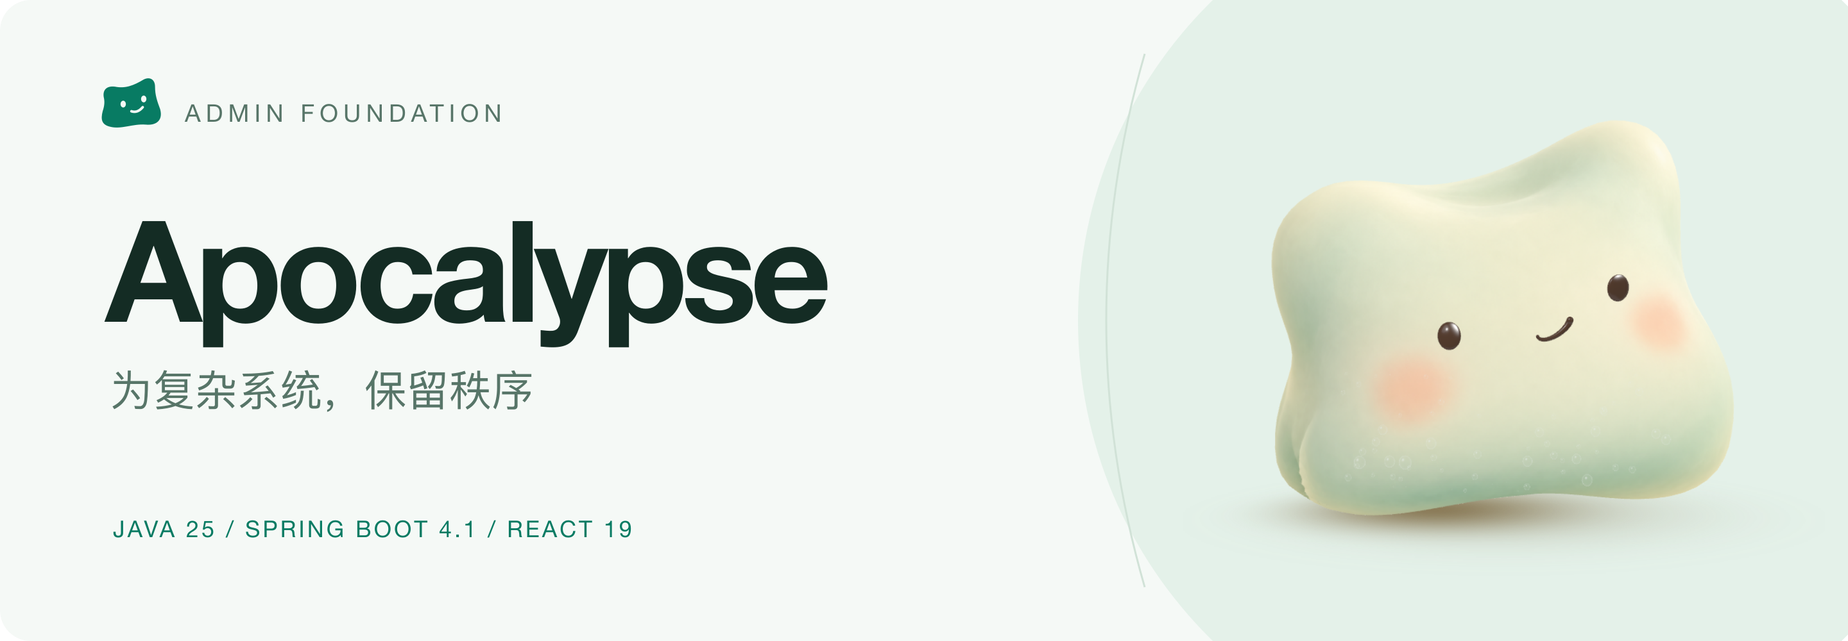
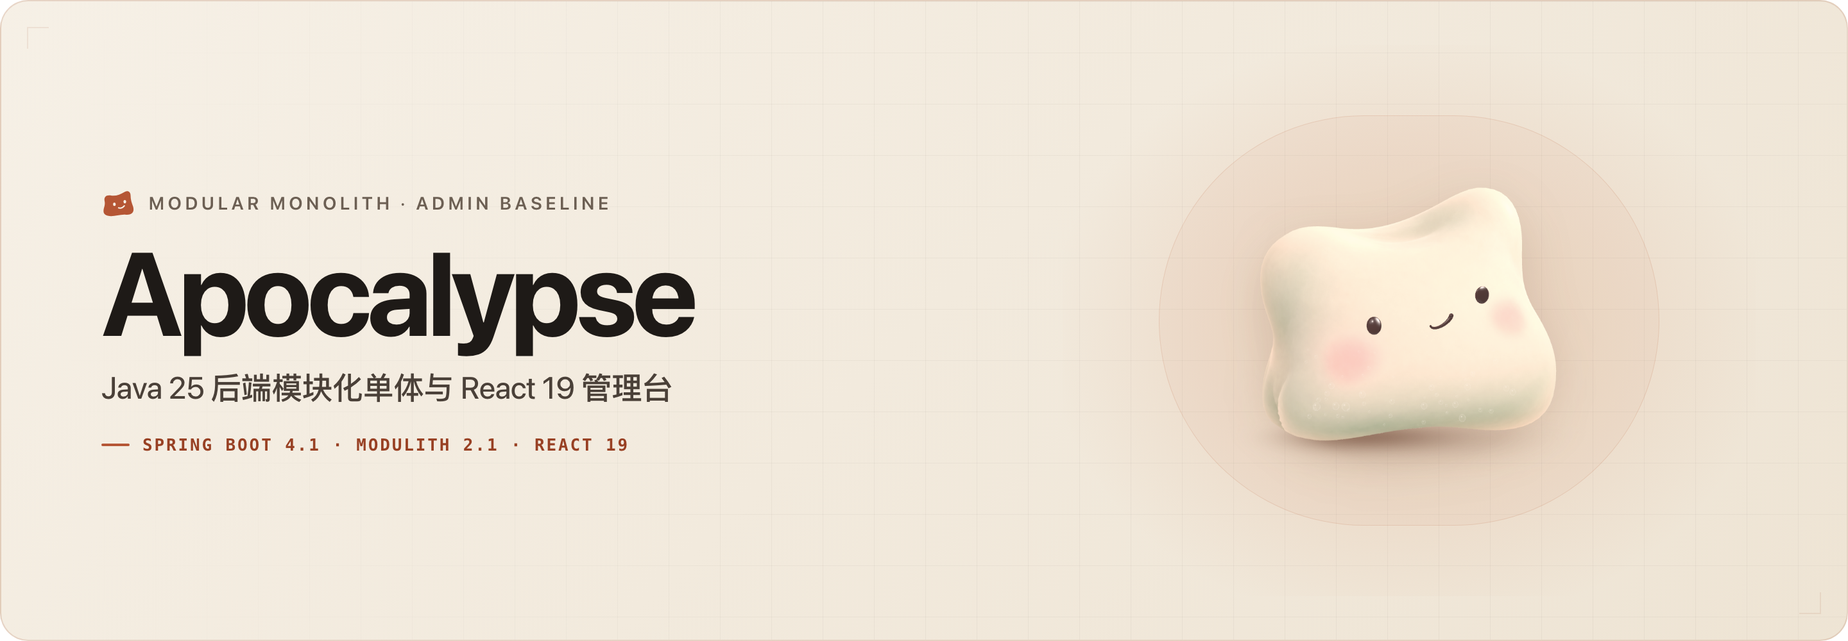
docs(readme): redesign visual palette and update showcase for v0.1.0-rc.2

diff --git a/README.md b/README.md
@@ -2,119 +2,132 @@
   <source media="(max-width: 600px) and (prefers-color-scheme: dark)" srcset=".github/assets/readme/hero-mobile-dark.png">
   <source media="(max-width: 600px)" srcset=".github/assets/readme/hero-mobile-light.png">
   <source media="(prefers-color-scheme: dark)" srcset=".github/assets/readme/hero-dark.png">
-  <img src=".github/assets/readme/hero-light.png" alt="Apocalypse — Admin Foundation。为复杂系统，保留秩序。Apo / Milk Cloud 品牌角色。" width="100%">
+  <img src=".github/assets/readme/hero-light.png" alt="Apocalypse：Java 25 后端模块化单体与 React 19 管理台" width="100%">
 </picture>
 
 <p align="center">
-  <strong>让业务从一个更好的起点开始。</strong><br>
-  Java 模块化单体 × React 管理台，为你的下一套业务系统打好基础。
+  <strong>Java 25 / Spring Boot 4.1 模块化单体 × React 19 管理台基座</strong><br>
+  含认证授权、实时权限判定、操作审计、两级缓存与标准化后台页面组件。
 </p>
 
 <p align="center">
-  <a href="docs/release.md"><img src=".github/assets/readme/version.svg" alt="0.1.0-rc.2 发行候选" height="24"></a>
-  <a href="https://github.com/lilibonk/apocalypse/actions/workflows/ci.yml"><img src=".github/assets/readme/checks.svg" alt="查看 GitHub Actions CI" height="24"></a>
-  <a href="LICENSE"><img src=".github/assets/readme/license.svg" alt="Apache License 2.0" height="24"></a>
+  <a href="docs/release.md"><img src=".github/assets/readme/version.svg" alt="Version: 0.1.0-rc.2" height="24"></a>
+  <a href="https://github.com/lilibonk/apocalypse/actions/workflows/ci.yml"><img src=".github/assets/readme/checks.svg" alt="CI: GitHub Actions workflow" height="24"></a>
+  <a href="LICENSE"><img src=".github/assets/readme/license.svg" alt="License: Apache 2.0" height="24"></a>
 </p>
 
 <p align="center">
   <a href="docs/getting-started.md"><strong>快速开始</strong></a> ·
-  <a href="#界面一览">界面一览</a> ·
-  <a href="docs/module-development.md">开发业务模块</a> ·
-  <a href="docs/README.md">使用文档</a> ·
-  <a href="CHANGELOG.md">更新记录</a>
+  <a href="#界面预览">界面预览</a> ·
+  <a href="docs/module-development.md">模块开发</a> ·
+  <a href="docs/README.md">文档索引</a> ·
+  <a href="CHANGELOG.md">变更记录</a>
 </p>
 
-## 界面一览
+## 界面预览
 
-薄荷绿的操作强调、清晰的内容层级，还有一只柔软的 Apo。管理台支持明暗主题、中英文、两档密度与响应式布局，让日常管理也有一点轻快感。
+管理台包含用户、角色、权限目录、菜单、部门、字典与参数工作区，支持清透流体、手绘手账与深邃夜色（Obsidian）三套主题，以及中英文、两档密度与响应式布局。
 
 <picture>
   <source media="(prefers-color-scheme: dark)" srcset=".github/assets/readme/admin-dark.jpg">
-  <img src=".github/assets/readme/admin-light.jpg" alt="Apocalypse 用户管理：侧栏导航、多页签、筛选与操作表格。当前组件渲染，全部为示例数据。" width="100%">
+  <img src=".github/assets/readme/admin-light.jpg" alt="Apocalypse 用户管理界面：左侧部门树筛选、多维检索条、用户表与统一下置分页器，全部为示例数据。" width="100%">
 </picture>
 
-<p align="center"><sub>当前管理台组件 · 示例数据 · 随阅读环境切换明暗展示</sub></p>
+<p align="center"><sub>用户管理工作区（清透流体亮色 / Obsidian 暗色 · 示例数据）</sub></p>
 
 <details>
-<summary><strong>认识 Apo：登录页的品牌宠物</strong></summary>
+<summary><strong>角色授权工作台：业务权限、数据范围与导航分配</strong></summary>
 
-Apo 的 Milk Cloud 造型也出现在首页首图中。在支持 WebGPU 的浏览器里，它能跟随视线、回应按压与拖拽；输入密码时会闭上眼睛，等待、成功和出错时也有对应表情。关闭动效或浏览器不支持时，仍以静态形象陪伴登录。
+角色配置在同一路由全宽展开，统一编辑业务权限开关、逐权限数据范围覆盖、UTC 生效起止时间、C/M 导航菜单分配以及角色成员基线，保存时校验服务端修订号。
 
 <picture>
-  <source media="(prefers-color-scheme: dark)" srcset=".github/assets/readme/login-dark.jpg">
-  <img src=".github/assets/readme/login-light.jpg" alt="Apocalypse 登录页：左侧为 Apo / Milk Cloud 品牌宠物，右侧为登录表单及主题、语言设置。" width="100%">
+  <source media="(prefers-color-scheme: dark)" srcset=".github/assets/readme/role-workbench-dark.jpg">
+  <img src=".github/assets/readme/role-workbench-light.jpg" alt="Apocalypse 角色授权工作台：内联配置业务权限、数据范围覆盖、有效期与导航菜单。" width="100%">
 </picture>
 
 </details>
 
-## 为什么选择 Apocalypse
+<details>
+<summary><strong>登录页与三主题世界切换</strong></summary>
 
-### 一个后端制品，清楚的业务边界
+登录页左侧为 Apo / Milk Cloud 角色舞台（支持 WebGPU 交互并在关闭动效或不支持时降级为静态形象），右侧为凭证表单以及底部的主题世界与语言切换控制。
 
-后端保留**单 Maven 模块**，业务域各自拥有明确入口和对外 facade。Spring Modulith 与 ArchUnit 把边界变成可执行检查，让项目从第一天就有清楚的结构，也能沿着同一套约定继续扩展。
+<picture>
+  <source media="(prefers-color-scheme: dark)" srcset=".github/assets/readme/login-dark.jpg">
+  <img src=".github/assets/readme/login-light.jpg" alt="Apocalypse 登录页：左侧 Milk Cloud 角色与右侧登录表单及主题切换条。" width="100%">
+</picture>
 
-### 从权限到页面，基础已经配套
+</details>
 
-用户、角色、部门、导航、业务权限和审计已有完整管理界面。对象工作区把选择、关系、编辑和保存结果连续呈现，并保留字段列表入口。业务授权独立于导航，支持逐权限的数据范围和生效起止时间；标准 CRUD 页面通过 DynaLayer 声明筛选、表格和表单，业务模块可复用现成控件与查询生命周期。
+## 结构与取向
 
-### 把质量检查带进开发流程
+### 单 Maven 模块下的物理边界
 
-后端检查架构、迁移、安全和集成行为，前端检查类型、组件与真实浏览器交互。模块启停、撤权和换号后的旧请求处理都有回归覆盖，新业务可以沿用同一套门禁。
+后端保持单 Maven 模块构建，以 `io.apocalypse.<domain>` 划分业务域，`common` 与 `framework` 承担共享契约和基础设施装配。跨模块调用仅允许通过对方 `api` 包 facade 或 `common.event` 事件，边界规则由 Spring Modulith 与 ArchUnit 在构建阶段检查。
 
-## 开箱有什么
+### 独立业务授权与数据范围
 
-| 能力       | 已有内容                                                                                    |
-| ---------- | ------------------------------------------------------------------------------------------- |
-| 系统管理   | 用户、角色、独立业务权限与导航、部门、字典、参数、在线会话                                      |
-| 数据权限   | 角色默认及逐权限的全部/本部门/本部门及子部门范围、固定有效期，以及用户归属对象授权                    |
-| 登录与安全 | Spring Security / JWT、内存 access token、HttpOnly refresh cookie、CSRF、登录限流与失败锁定 |
-| 审计与运行 | 登录 / 操作日志、统一脱敏、TraceId、OpenAPI、健康检查                                       |
-| 数据与缓存 | MyBatis-Plus、Flyway、PostgreSQL、Redis / Caffeine 两级缓存                                 |
-| 前端体验   | 明暗主题、中英文、响应式布局、多页签、全局搜索与 DynaLayer CRUD                             |
-| 可选能力   | Calendar 试验模块：默认关闭，以服务端开关统一控制暴露面                                     |
+业务权限（`sys_permission` / `sys_role_permission`）与菜单导航（`sys_menu` / `sys_role_navigation`）彻底分离：新增或调整菜单不会授予任何接口能力，后端每个 `@PreAuthorize` 经统一 factory 对角色范围（`ALL` / `DEPT` / `DEPT_AND_CHILDREN`）、逐权限范围覆盖、生效有效期及请求级授权快照实时判定。
+
+### 统一的前端工作区与门禁
+
+后台页面围绕无头 `useDynaController`、`DynaPage`、`DynaPagination` 与实体速览组件 `EntityPeekLink` 构建，配合 `/profile` 自助资料、密码与在线会话管理。前后端在 CI 中分别执行 `./mvnw --batch-mode verify`（ArchUnit、Modulith、Flyway 与 Testcontainers 集成测试）与 `pnpm check` / `pnpm test:browser`（Vitest 与 Chromium 浏览器交互测试）。
+
+## 内置能力
+
+| 领域       | 包含内容                                                                                 |
+| ---------- | ---------------------------------------------------------------------------------------- |
+| 系统管理   | 用户（CSV 导入导出、部门过滤）、角色与授权工作台、权限目录、菜单与部门分页树、字典色卡、参数批量编辑、在线会话 |
+| 数据权限   | 角色默认与逐权限 `ALL` / `DEPT` / `DEPT_AND_CHILDREN` 范围、UTC 固定有效期、用户归属对象校验 |
+| 认证与安全 | 内存 access JWT、同源 HttpOnly/Secure refresh Cookie 轮转、CSRF、IP/账号登录锁定与接口限流 |
+| 审计与可观测 | 事件驱动登录/操作日志、敏感字段脱敏、TraceId 透传、OpenAPI（仅开发态）与健康检查         |
+| 数据与缓存 | MyBatis-Plus 3.5、Flyway（`V1.x` 平台 / `V100.x+` 业务隔离）、PostgreSQL、Redis + Caffeine 两级缓存 |
+| 前端管理台 | 三套主题世界（`fluid` / `sketchbook` / `obsidian`）、中英文、命令面板、多页签与 `/profile` 个人中心 |
+| 可选模块   | Calendar 试验域：默认关闭，通过配置开关统一控制暴露面与授权状态                          |
 
 <details>
-<summary><strong>技术栈与目录</strong></summary>
+<summary><strong>技术栈与目录结构</strong></summary>
 
 | 后端                                            | 前端                                    |
 | ----------------------------------------------- | --------------------------------------- |
-| Java 25 · Spring Boot 4.1 · Spring Modulith 2.1 | React 19 · TypeScript · Vite 7          |
-| Spring Security · MyBatis-Plus · Flyway         | Tailwind CSS 4 · shadcn/ui · Radix UI   |
+| Java 25 · Spring Boot 4.1.1 · Spring Modulith 2.1 | React 19 · TypeScript · Vite 7          |
+| Spring Security · MyBatis-Plus 3.5 · Flyway     | Tailwind CSS 4 · shadcn/ui · Radix UI   |
 | PostgreSQL 18.6 · Redis 8.10.1 · Caffeine       | TanStack Query · Zustand · React Router |
 | ArchUnit · Testcontainers                       | Vitest · Playwright                     |
 
 ```text
 src/main/java/io/apocalypse/
-├── common/             共享契约与通用模型
-├── framework/          安全、缓存、Web 与模块装配
-├── system/             系统管理业务域
+├── common/             共享响应、异常与跨模块事件契约
+├── framework/          安全、缓存、Web 与模块装配基础设施
+├── system/             系统管理业务域（用户/角色/权限/菜单/部门/字典/参数/日志）
 └── calendar/           可选万年历业务域
 
 apocalypse-web/src/
-├── components/         共享控件、布局与 DynaLayer
-├── lib/                API 与查询生命周期
-└── views/              按业务域组织的页面
+├── components/         布局骨架、DynaLayer 与通用组件
+├── design/             设计规范（DEFINITION.md / MOTION.md）与主题变量
+├── lib/                API 客户端、授权快照生命周期与路由辅助
+└── views/              按业务域划分的页面实现
 ```
 
 </details>
 
-## 在本地跑起来
+## 本地运行
 
-准备 **JDK 25、Docker Compose、Node.js 24、pnpm 11.19.0**。Maven 已通过 Wrapper 随仓库提供。
+需要 **JDK 25、Docker Compose、Node.js 24、pnpm 11.19.0**（Maven 通过 `./mvnw` 随仓库提供）。
 
 ```bash
 git clone https://github.com/lilibonk/apocalypse.git
 cd apocalypse
 ```
 
-按[快速开始](docs/getting-started.md#1-准备本地服务和一次性管理员密码)设置当前 shell 的私有 JWT 签名密钥与一次性管理员密码，然后启动后端：
+按[快速开始](docs/getting-started.md#1-准备本地服务和一次性管理员密码)在当前 shell 设置本地 JWT 签名密钥与一次性管理员密码后，启动依赖与后端：
 
 ```bash
 docker compose up -d
 ./mvnw spring-boot:run
 ```
 
-另开终端，在仓库根目录启动管理台：
+另开终端启动前端：
 
 ```bash
 cd apocalypse-web
@@ -122,36 +135,39 @@ pnpm install --frozen-lockfile
 pnpm dev
 ```
 
-访问 [http://localhost:5173](http://localhost:5173)，使用 `admin` 和刚才设置的密码登录。首次成功启动后移除一次性密码变量，后续启动不会重置管理员密码。Windows、环境排查与完整命令见[快速开始](docs/getting-started.md)。
+打开 [http://localhost:5173](http://localhost:5173) 使用 `admin` 和设置的密码登录；首次初始化完成后请及时移除一次性密码环境变量。更多环境细节见[快速开始](docs/getting-started.md)。
 
-> 空库自动执行统一的 `V1__init.sql` 初始基线（含独立业务授权 `sys_permission`/`sys_role_permission`、导航关系 `sys_role_navigation` 与 Calendar 完整结构）；平台级迁移固定在 `V1.x` 区间，下游业务模块迁移固定在 `V100.x+` 区间。版本升级或数据库恢复均须停止全部旧实例、使用全新 JWT 签名密钥，用户重新登录、服务账号重新签发并验证管理 scope。
+> 空库自动执行统一的 `V1__init.sql` 初始基线；平台级迁移固定在 `V1.x`，下游业务模块迁移固定在 `V100.x+`。涉及版本升级或数据库恢复时，需先停止全部旧实例并使用全新 JWT 签名密钥重新签发凭据。
 
-## 开始构建你的业务
+## 开发与验证
 
-先读[模块开发指南](docs/module-development.md)：划分业务域，声明模块入口，接入权限与迁移，再添加页面。标准列表优先复用 DynaLayer；复杂业务保留自己的页面与编排。
+参考[模块开发指南](docs/module-development.md)划分新业务域，可使用 `scripts/create-module.mjs` 脚手架生成模块基础结构；标准列表优先复用 DynaLayer 与通用控制器，复杂交互保持域内独立实现。
 
 ```bash
-# 仓库根目录：后端全量检查
+# 仓库根目录：完整后端门禁（单测、架构校验、Testcontainers 集成测试、格式化检查）
 ./mvnw --batch-mode verify
 
-# 前端目录：格式、lint、单元测试与构建
+# 仓库根目录：校验公开文档内部链接
+node scripts/verify-public-docs.mjs
+
+# 前端目录：格式、lint、单测、构建与 Chromium 浏览器交互测试
 cd apocalypse-web
 pnpm check
 pnpm test:browser
 ```
 
-| 你要做什么         | 从这里开始                                                                    |
+| 目标               | 文档                                                                          |
 | ------------------ | ----------------------------------------------------------------------------- |
-| 运行并登录项目     | [快速开始](docs/getting-started.md)                                           |
-| 添加业务模块与页面 | [模块开发](docs/module-development.md) · [前端说明](apocalypse-web/README.md) |
+| 本地安装与故障排查 | [快速开始](docs/getting-started.md)                                           |
+| 扩展新业务模块     | [模块开发](docs/module-development.md) · [前端说明](apocalypse-web/README.md) |
 | 部署、备份与升级   | [部署指南](docs/deployment.md) · [运行与升级](docs/operations.md)             |
 | 启用 Calendar      | [Calendar 手册](docs/calendar/README.md)                                      |
-| 确认版本支持范围   | [发行契约](docs/release.md) · [更新记录](CHANGELOG.md)                        |
+| 查看边界与兼容政策 | [发行契约](docs/release.md) · [变更记录](CHANGELOG.md)                        |
 
-## 当前版本与许可
+## 版本状态与许可
 
-当前为 **0.1.0-rc.2 预发布**，稳定版本尚未发布。[查看发行说明与下载源码包](https://github.com/lilibonk/apocalypse/releases/tag/v0.1.0-rc.2)。项目适合以现有系统管理能力为基础开发独立业务域；支持范围与兼容政策见[发行契约](docs/release.md)。
+当前版本为 **`0.1.0-rc.2` 预发布**，稳定版尚未发布，详见 [GitHub Release](https://github.com/lilibonk/apocalypse/releases/tag/v0.1.0-rc.2) 与[发行契约](docs/release.md)。
 
-本版不提供代码生成器、在线任务调度管理平台、公告、多租户或通用文件服务。Calendar 是默认关闭的试验模块，其代码与 Schema 随同一制品保留；早期 Order 运行 API 已退役，兼容表和事件桥仍保留。
+本版本不包含代码生成器、在线任务调度管理平台、公告、多租户与通用文件管理界面。Calendar 为默认关闭的可选试验域；早期 Order 运行接口已退役，仅保留兼容表结构与事件桥。
 
-项目自有部分采用 [Apache License 2.0](LICENSE)。直接移植的代码、素材和依赖保留原始授权，详见[第三方声明](THIRD_PARTY_NOTICES.md)。
+项目自有代码按 [Apache License 2.0](LICENSE) 分发；移植代码、素材与运行时依赖的原始许可见[第三方声明](THIRD_PARTY_NOTICES.md)。

diff --git a/apocalypse-web/README.md b/apocalypse-web/README.md
@@ -1,53 +1,38 @@
 # Apocalypse Web
 
-同仓库的 React 19 / Vite 7 / TypeScript 管理台。先按[仓库快速开始](../docs/getting-started.md)启动后端，再从本目录运行：
+与主仓库同步的 React 19 / Vite 7 / TypeScript 管理台前端。先按[快速开始](../docs/getting-started.md)启动后端服务，再在当前目录执行：
 
 ```bash
 pnpm install --frozen-lockfile
 pnpm dev
 ```
 
-开发服务器位于 `http://localhost:5173`，把 `/api` 代理至 `http://localhost:8080` 并去掉前缀。仅需更换开发后端时，可在启动前设置 `APOCALYPSE_API_PROXY_TARGET`；它不会进入浏览器 bundle。登录由后端认证，后端未启动时登录会提示网络错误。
+开发服务器监听 `http://localhost:5173`，并将 `/api` 代理至 `http://localhost:8080`（转发时剥离前缀）。需要指向其他后端实例时，启动前设置 `APOCALYPSE_API_PROXY_TARGET`（该变量不打入浏览器产物）。
 
-## 开发与检查
+## 常用命令
 
-| 命令          | 用途                                 |
-| ------------- | ------------------------------------ |
-| `pnpm check`  | 格式、lint、测试和生产构建的完整检查 |
-| `pnpm test`   | Vitest                               |
-| `pnpm build`  | TypeScript 与 Vite 构建              |
-| `pnpm format` | 格式化本目录文件                     |
+| 命令                | 说明                                  |
+| ------------------- | ------------------------------------- |
+| `pnpm check`        | 格式检查、lint、Vitest 单测与生产构建 |
+| `pnpm test`         | 运行 Vitest 单元测试与设计门禁        |
+| `pnpm test:browser` | 运行 Chromium fixtures 交互测试       |
+| `pnpm build`        | 执行 TypeScript 编译与 Vite 生产构建  |
+| `pnpm format`       | 使用 Prettier 格式化前端源码          |
 
-`src/lib/api/` 是后端响应和刷新令牌的适配层；`src/routes/` 将后端菜单映射到 `src/views/**` 页面；`src/components/dyna/` 提供标准 CRUD schema 渲染；`src/i18n/` 自动装载模块自己的中英文 locale pack。新业务域的接入步骤见[模块开发](../docs/module-development.md)，现有 lint、类型和测试检查验证组件及查询边界。
+`src/lib/api/` 封装统一信封与同源刷新令牌重试逻辑；`src/routes/` 根据后端菜单树注册动态路由；`src/components/dyna/` 承载无头控制器 `useDynaController` 与 schema 渲染；`src/i18n/` 自动加载各模块的中英文语言包。新增业务模块页面的约定见[模块开发](../docs/module-development.md)。
 
-Calendar 页面随前端构建存在，但运行时只依据后端最新菜单/权限开放；前端不设置第二个启停开关。其边界和配置见[Calendar 手册](../docs/calendar/README.md)。
+Calendar 路由组件随主包构建，但运行时严格依据后端返回菜单和实时授权开放，不在前端设置旁路开关，详情见 [Calendar 手册](../docs/calendar/README.md)。
 
-登录页的 WebGPU 史莱姆是当前品牌实现；不支持 WebGPU 或用户关闭动效时使用静态展示。Apocalypse 项目自有部分按 [Apache License 2.0](../LICENSE) 授权；史莱姆、UI 组件和其他直接移植来源的原始许可见[第三方声明](../THIRD_PARTY_NOTICES.md)。历史设计验收记录不是新业务页面的接入指南；现行视觉与交互约束见[设计定义](src/design/DEFINITION.md)。
+登录页交互角色基于 `PixelOrb`（WebGPU 实现，在不支持或关闭动效时自动回退至静态图像）。项目自有代码按 [Apache License 2.0](../LICENSE) 授权，第三方源码与依赖声明见[第三方声明](../THIRD_PARTY_NOTICES.md)。
 
-## 工作台与角色权限
+## 界面、主题与页面约定
 
-桌面工作台按当前用户权限读取服务端全量周期统计（近 24 小时／7 天／30 天）、最近活动和当前在线会话。周期总量与曲线使用同一已接受结果，在线会话单独说明即时口径；7 天／30 天聚合沿用服务端缓存策略，不宣称实时。最近活动仍是有界样本，无权限、无数据和读取失败分别表达。主总量保留滚轮，次级指标直接更新，避免多处数字同时滚动。
-
-桌面角色管理提供两套完整操作方式：默认图谱围绕角色对象和关系构建管理流程，也可切换 DynaLayer 列表。两种入口共用业务权限、导航分配、成员三个关系编辑器，支持新增／移除、逐项还原、整体撤销、差异预览、未保存退出确认与失败恢复；移动端使用同样完整的列表流程。角色属性与启停更新携带 `expectedAuthorizationRevision`，并发变更须重新载入后审阅。
-
-业务权限从独立权限目录选择，完整读取 `GET /system/roles/{id}/permissions`，候选分页仅用于发现定义。每项授权可设置启停、继承角色范围或动作支持的部门范围、明确时区的起止时间；保存提交带角色与目录 revision 的 touched delta，未触碰的历史或不可读定义保留。`40900` 冲突保留草稿并要求重新读取，`403/404` 清理旧资源上下文。权限目录通过 DynaLayer 管理名称、说明、启停和生命周期；权限代码、可执行绑定与支持范围由服务端声明，页面不创建任意可执行权限。
-
-导航分配仅决定目录和页面入口，不授予业务操作或数据范围。`GET/PUT /system/roles/{id}/navigation` 使用 revision 和 `addIds/removeIds`，旧 `/roles/{id}/menus` 已停用。菜单管理只新增／编辑目录和页面，历史 F 按钮及旧权限标识只读追溯。成员编辑使用 `GET /system/roles/{id}/user-ids` 的完整 ID 基线；可见用户页仅补充资料，绝不重建完整替换集合，保存前仍核对完整成员基线。
-
-读取按对应权限展示；角色、导航、成员、权限定义等全局管理写操作要求该动作的 ALL 有效范围。页面、请求与草稿绑定服务端授权快照、代次和截止时间；身份变化、撤权、到期或资源拒绝会使旧数据与迟到回调失效。实际授权始终由服务端决定，图谱展示的是保存配置。
-
-普通焦点/可见性恢复通过 `/me` 重验，同快照保留未保存草稿；从 BFCache 恢复则先失效旧上下文，再在跨标签锁内重新核验共享 Cookie，避免漏收换号通知后继续显示旧身份。
-
-各工作区使用真实接口与既有 React Query、CSS、Motion，遵循明暗主题、正式设置中的动画开关与系统减少动态设置。角色定位器和相邻检查器按实际内容宽度收起；窄屏检查器使用 Sheet，草稿、范围、时区和有效期仍由原编辑器持有。授权链上的对象可直接定位到相应关系详情，保存后保留仍有效的选择。移动端工作台保留原视图，角色关系使用完整列表编辑。
-
-桌面角色页在未指定角色且同时具备角色与权限目录查看权限时先显示权限全景（用户、角色、业务权限、导航入口计数盘），选择角色后进入只读授权链，编辑仍回到上述三个关系编辑器；全景仅展示保存的配置，不代表某个用户的最终有效权限。工作台、登录热力图与操作统计使用服务端全量统计（近 24 小时／7 天／30 天，按服务器记录时区分桶）。部门页提供组织图（方向键导航），字典与参数页分别提供卡片视图和多项草稿工作区，参数值批量保存携带版本并以 `40900` 整批拒绝过期项。
-
-用户与权限目录默认采用对象工作区，保留可切换的字段列表。账号选择连接所属部门、状态和可用操作，待分配角色入口可带着账号进入角色成员流程；权限目录按当前页的模块／资源／动作组织，并标明数据范围。菜单展示导航路径与相邻节点详情，字典册可完成类型和值两层管理；参数草稿可跨分页和搜索保留，仍按完整差异原子保存。登录观察把热力图和分页记录放在同一工作区，明确记录不支持按所选小时筛选；在线视图按账号展开设备，强退影响该账号全部设备。
-
-命令面板输入 `?` 进入规则查询（非 AI），结果可以携带对象 ID 与搜索条件进入合法页面。目标页重新读取当前授权范围，不信任路由中的业务数据或授权信息。模块可在 `src/views/**/command-questions.tsx` 默认导出 `CommandQuestionProvider` 注册问题，构建时自动发现；描述对象常驻，面板组件应懒加载。页面草稿经 `usePageDraft` 只保存在内存中，绑定当前身份与授权代次，关闭含草稿的页签前会确认。
-
-页面统一使用 `PageHeader`（标题、说明、视图切换、操作）；视图、关系与时间范围切换使用 `SegmentedControl`。空间工作台直接调用 `useDynaController`（headless：分页查询、筛选、选择、权限与原生行操作）并组合 `components/spatial` 骨架与 `DynaDialogs`；桌面可切换“工作区 | 列表”（URL `view=`），不清空当前查询和编辑态。跨页对象关联使用 `EntityPill`（`components/navigation/`）携带上下文直达目标工作区。标准表格页仍可用 `DynaPage`；页内分区里的 DynaPage 用 `embedded` 只显示工具条。传给 DynaTable 的回调需保持稳定（`useCallback` / `useStableCallback`），打开弹层时只重渲被标记的来源行。
-
-当前界面采用苹果应用式层级与 mint 品牌：中性内容底色、轻量导航材质、明暗主题、固定正文的两档密度与整层浮层动效。标准 CRUD 继续使用 DynaLayer，查询失败与成功空态分别表达；视觉和状态规则见[设计定义](src/design/DEFINITION.md)。
-
-工作台的品牌首图与根 README 同源，提供桌面/手机、明暗四份素材。静态 Apo 图形标用于登录页、侧栏、移动导航与 favicon；应用图形标和首图跟随应用主题，登录交互角色仍沿用现有 WebGPU 与静态降级。素材位于 `public/brand/`，图形消费者为 `BrandSignature`，首图消费者为 `BrandHero`。
+- **三套原生主题世界**：全站通过 `html[data-theme-world]` 切换 `fluid`（清透流体 · 默认）、`sketchbook`（手绘手账）与 `obsidian`（深邃夜色，自动联动 `.dark` 基线），登录页与顶栏设置共用同一状态，响应两档密度（`compact` / `comfortable`）与中英文切换。所有设计变量、动效边界及组件门禁定义在[设计定义](src/design/DEFINITION.md)和[动效规范](src/design/MOTION.md)。
+- **工作台与个人中心**：`/dashboard` 依据当前授权展示近 24 小时／7 天／30 天运行态势、最近审计动态及在线会话；`/profile` 提供独立的个人昵称修改、密码更新（强制全端凭据轮转）与当前登录设备管理。
+- **角色授权重构**：`/system/role` 默认呈现实用的角色列表并保留列表 CRUD；点击「授权配置」后在同一路由全宽进入 `RoleWorkbench`，集中处理以下三类关系并统一校验服务端修订号与并发冲突（`40900` 保留草稿并提示重新载入）：
+  - **业务权限**：拉取 `GET /system/roles/{id}/permissions` 与权限目录定义，在单表内直接配置启停状态、逐权限部门范围覆盖（受权限定义声明的 `supportedScopeOverrides` 约束）与明确时区的起止有效期；权限标识、生命周期定义由权限目录页（`/system/permission`）集中查阅与启停管理，不能在页面任意创建可执行代码。
+  - **导航分配**：通过 `GET/PUT /system/roles/{id}/navigation`（`addIds/removeIds`）维护 C/M 目录及菜单入口，与业务接口授权解耦，不再使用已废弃的 `/roles/{id}/menus`。
+  - **角色成员**：基于 `GET /system/roles/{id}/user-ids` 完整基线增删成员。
+- **统一的系统管理工作区与分页**：用户管理、权限目录、菜单与部门树表、字典色卡与参数工作区统一收口分页器至全宽下置 `DynaPagination`（含页码、每页条数切换与总条数统计）。其中用户页集中部门树过滤与角色分配/重置密码弹窗闭环；菜单与部门树表支持客户端分页并自动补齐跨页祖先面包屑；字典管理提供 6 种语义色调抽屉（`DictBook`）；参数配置支持跨页保留草稿并按版本并发校验原子保存。
+- **授权快照、命令面板与内存草稿**：页面请求与内存草稿（`usePageDraft`）绑定当前登录身份、服务端 `authorizationSnapshotId` 及到期时间，切换账号、撤权或 BFCache 恢复会及时失效旧上下文。全局 `⌘K` 支持规则查询（`?` 前缀，非外部模型），并依据目标菜单与实时权限执行页面跳转或只读降级（`<EntityPeekLink />`）。
+- **品牌资源**：应用内顶栏与侧栏签名使用 `BrandSignature`，登录/桌面应用资源位于 `public/brand/`，与仓库根展示区素材（`.github/assets/readme/`）解耦。
